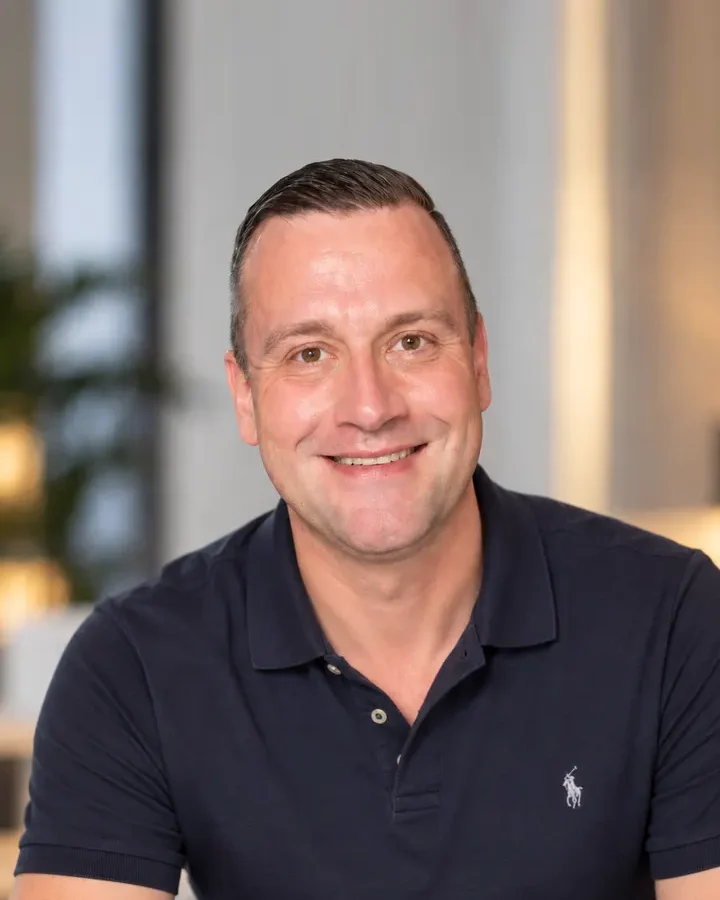
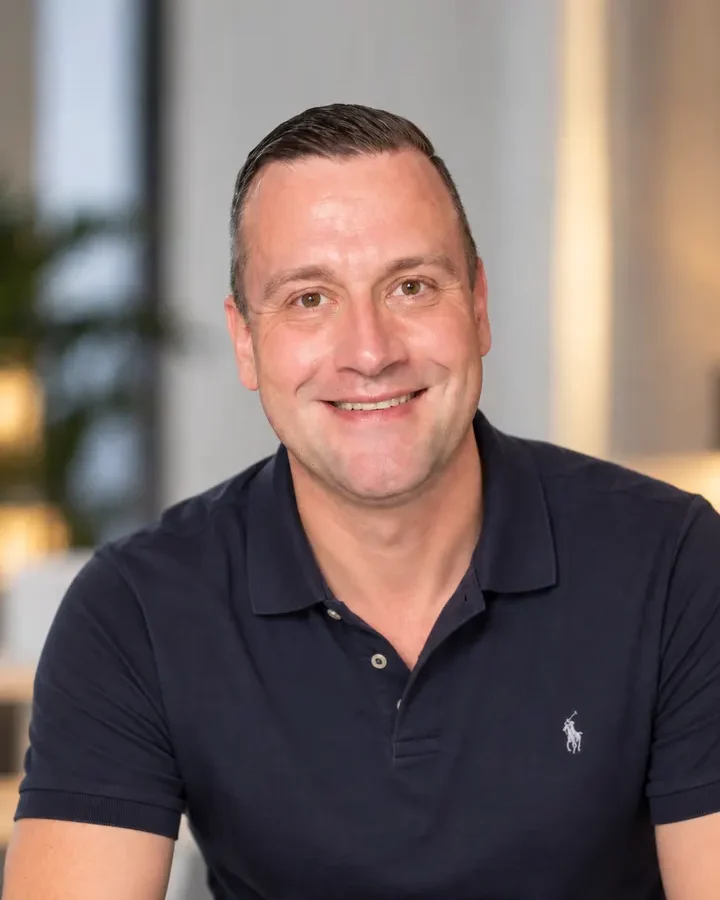
Patricks Foto: weniger Luft über dem Kopf
Ergänzter Hintergrund halbiert, mobiler Ausschnitt etwas tiefer.

Claude-Session: https://claude.ai/code/session_01PvMyphMGQ3MWEvhpDP2Mrw

diff --git a/src/assets/css/main.css b/src/assets/css/main.css
@@ -2971,7 +2971,7 @@ textarea.input {
   }
 
   .profile__photo .team-photo {
-    object-position: 50% 10%;
+    object-position: 50% 15%;
   }
 
   .profile h3 {
